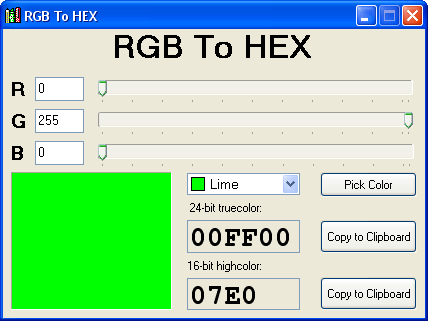
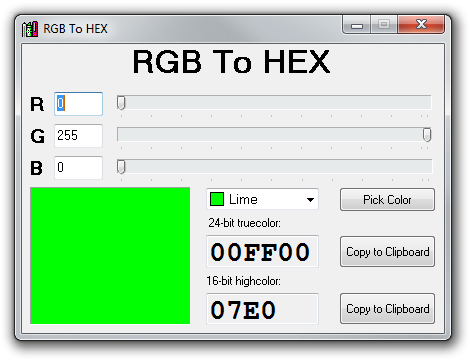
[CHG] Le titre est centré et il utilise le ParentFont [CHG] Mise à jour de la page Web (copyright et image)

diff --git a/About.cpp b/About.cpp
@@ -15,6 +15,8 @@ __fastcall TAboutBox::TAboutBox(TComponent* AOwner)
                                             IMAGE_ICON,
                                             48, 48,
                                             LR_DEFAULTSIZE);
+
+    ProductName->Font->Style = TFontStyles() << fsBold;
 }
 //---------------------------------------------------------------------
 

diff --git a/Main.cpp b/Main.cpp
@@ -22,6 +22,9 @@ __fastcall TfrmMain::TfrmMain(TComponent* Owner)
 
     Screen->Cursors[crEyeDropper] = (HCURSOR)LoadImage(HInstance, "EYEDROPPER",
         IMAGE_CURSOR, 0, 0, LR_DEFAULTCOLOR);
+
+    lblTitre->Font->Size = 24;
+    lblTitre->Font->Style = TFontStyles() << fsBold;
 }
 //---------------------------------------------------------------------------
 
